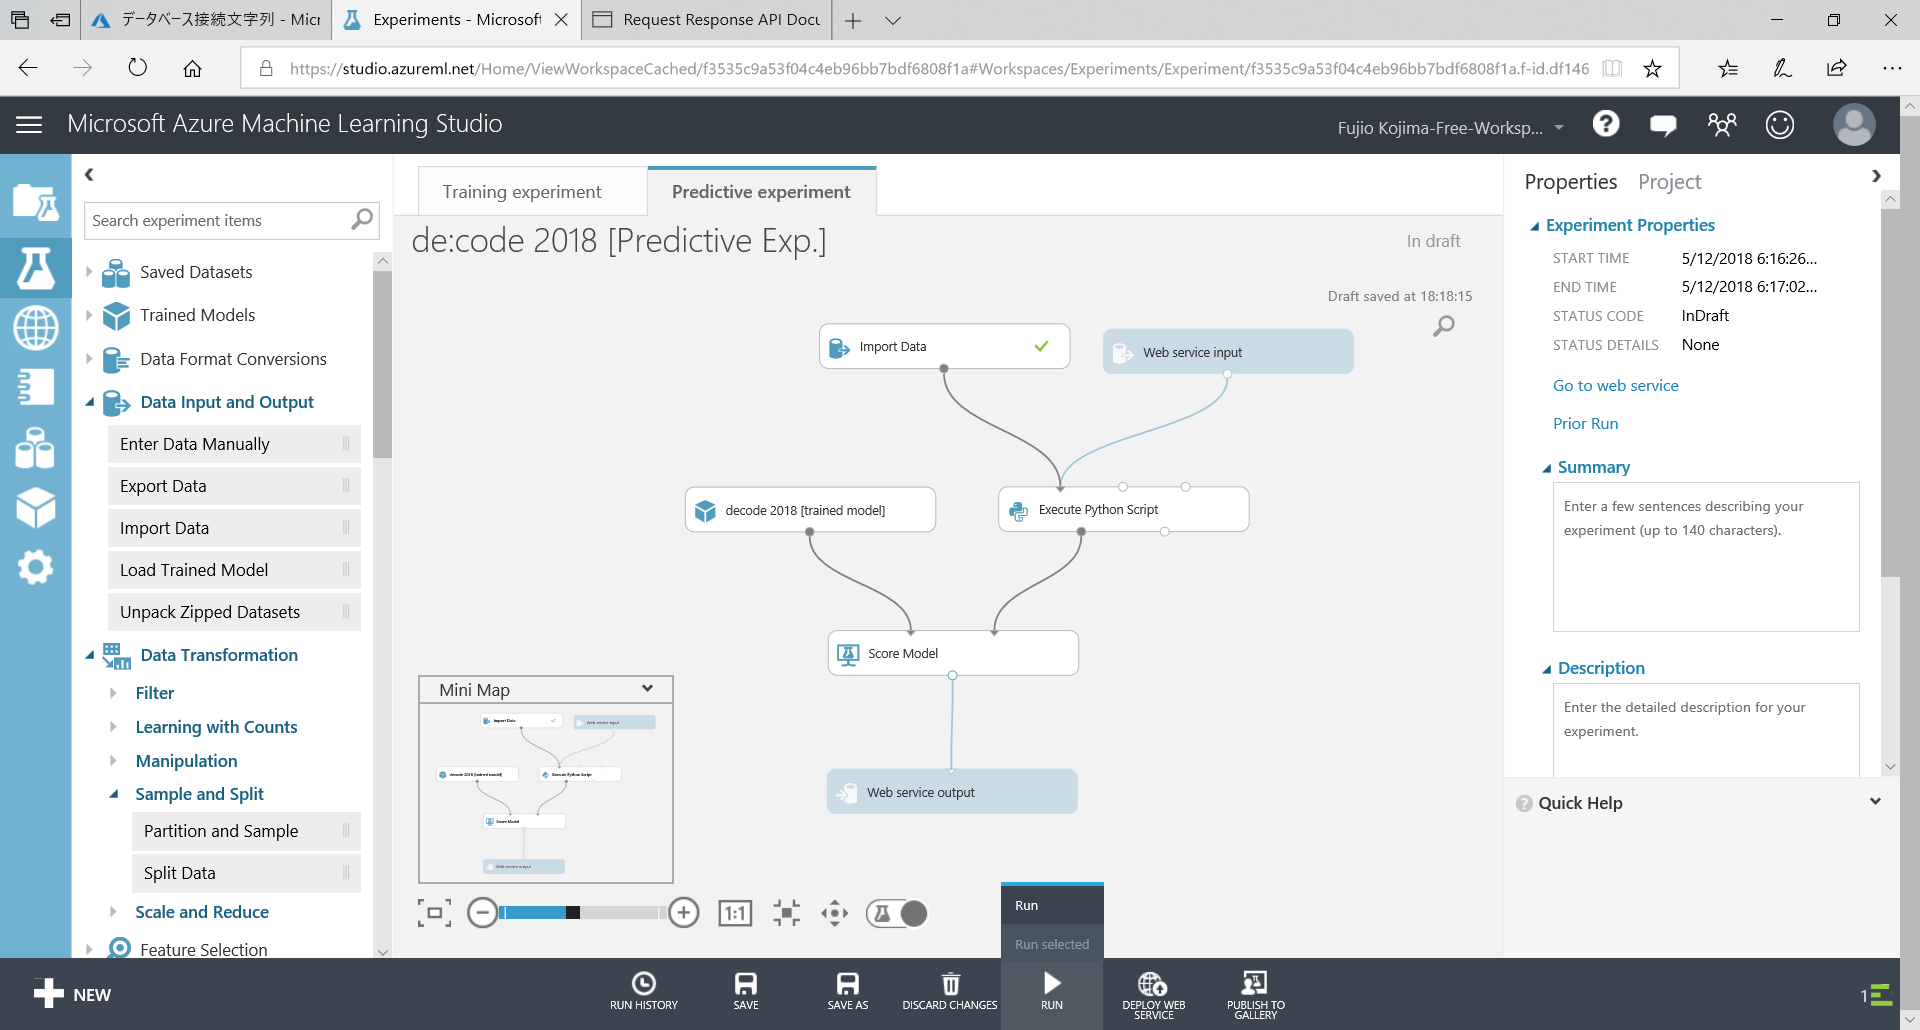
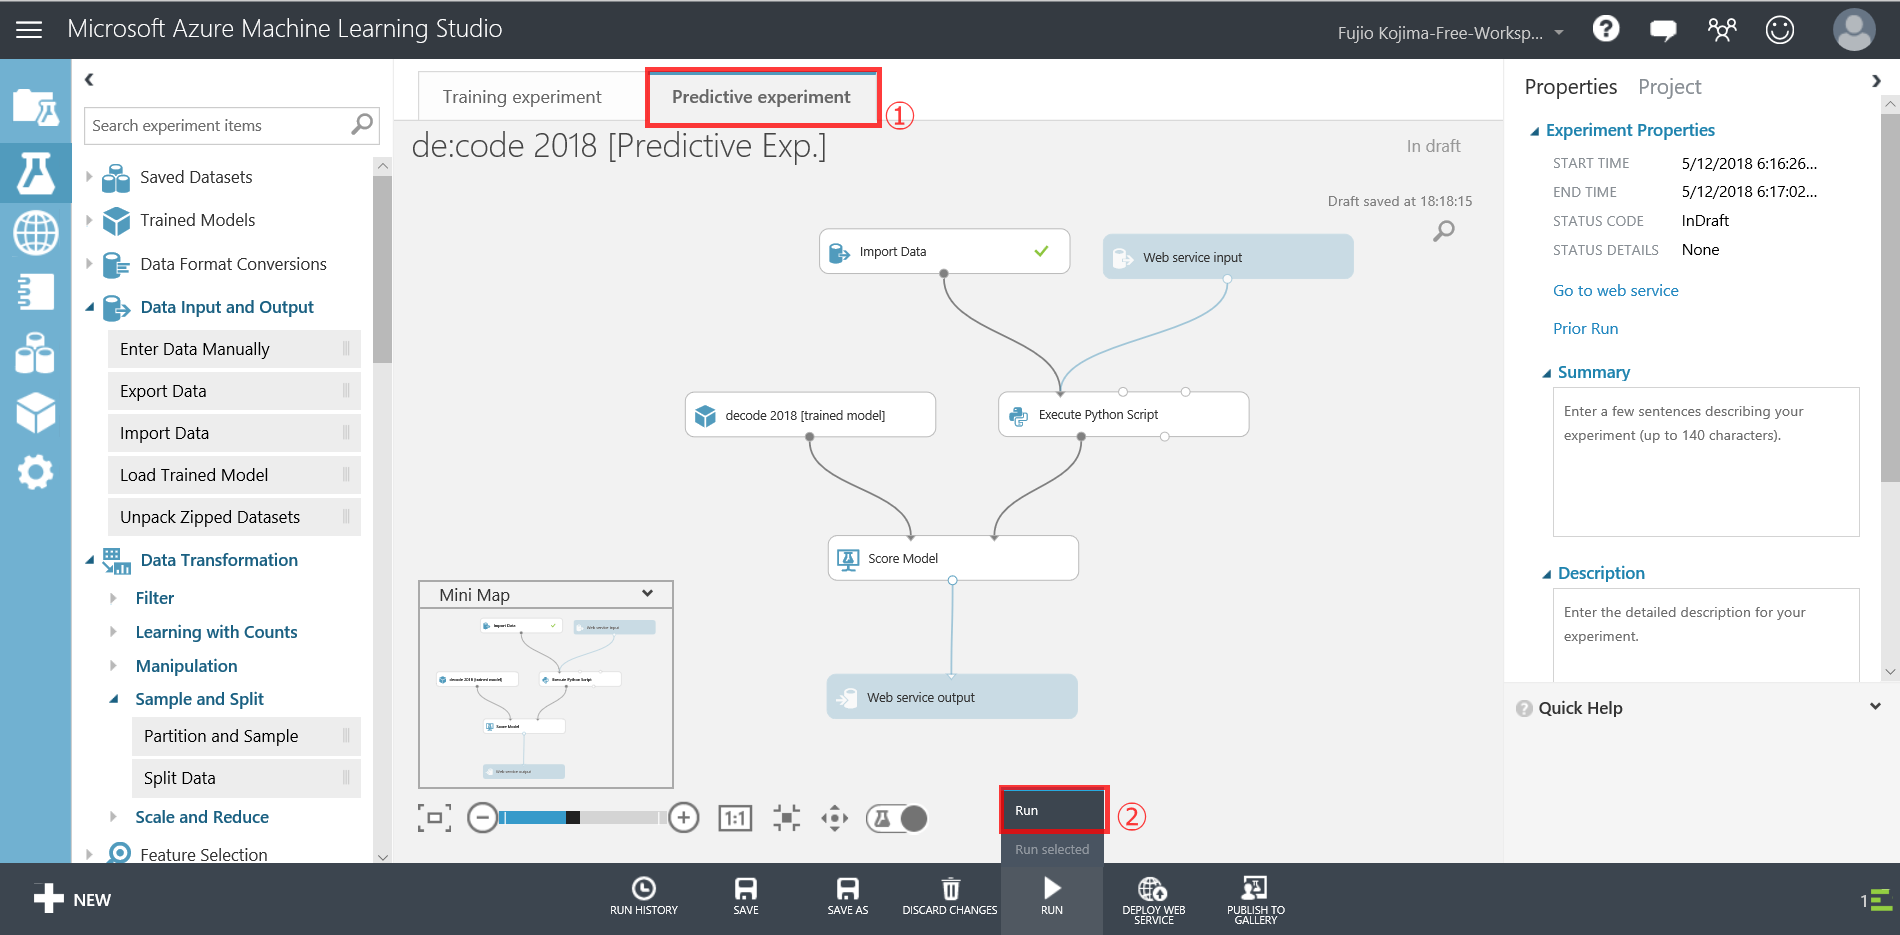
README.md 第三章の追加

diff --git a/README.md b/README.md
@@ -212,6 +212,35 @@ Azure Machine Learning Studio を使って簡単に機械学習を利用した A
 ---
 ## <a id="section4"></a>4. [Microsoft Azure Machine Learning Studio](https://studio.azureml.net) でマシーンラーニング (機械学習) したモデルから API を作成
 
+## 4.1 学習済みのモデルから、API を作ってみましょう。
+画面下部の「Predictice Web Service」をクリックします。
+
+![Microsoft Azure Machine Learning Studio でマシーンラーニング (機械学習) したモデルから API を作成](https://github.com/Fujiwo/PredictStockPrice-AI-decode/blob/master/images/2018-05-12%20(62).png?raw=true "Microsoft Azure Machine Learning Studio でマシーンラーニング (機械学習) したモデルから API を作成")
+
+## 4.2 「Predictice Experiment」というタブが作られます。
+画面下部の「RUN」をクリックしてみましょう。
+すべての実行が終わるまで待ちましょう。
+
+![Microsoft Azure Machine Learning Studio でマシーンラーニング (機械学習) したモデルから API を作成](https://github.com/Fujiwo/PredictStockPrice-AI-decode/blob/master/images/2018-05-12%20(77).png?raw=true "Microsoft Azure Machine Learning Studio でマシーンラーニング (機械学習) したモデルから API を作成")
+
+## 4.3 すべての実行が完了したら、画面下部の「DEPLOY WEB SERVICE」をクリックしてみます。
+
+![Microsoft Azure Machine Learning Studio でマシーンラーニング (機械学習) したモデルから API を作成](https://github.com/Fujiwo/PredictStockPrice-AI-decode/blob/master/images/2018-05-12%20(78).png?raw=true "Microsoft Azure Machine Learning Studio でマシーンラーニング (機械学習) したモデルから API を作成")
+
+## 4.4 学習済みモデルを利用した API が作られます。
+画面左下の「API HELP PAGE」 - 「REQUEST/RESPONSE」をクリックすると、作られた API の使い方を見ることができます。
+
+![Microsoft Azure Machine Learning Studio でマシーンラーニング (機械学習) したモデルから API を作成](https://github.com/Fujiwo/PredictStockPrice-AI-decode/blob/master/images/2018-05-12%20(79).png?raw=true "Microsoft Azure Machine Learning Studio でマシーンラーニング (機械学習) したモデルから API を作成")
+
+## 4.5 API の使い方が表示されます。
+
+![Microsoft Azure Machine Learning Studio でマシーンラーニング (機械学習) したモデルから API を作成](https://github.com/Fujiwo/PredictStockPrice-AI-decode/blob/master/images/2018-05-12%20(80).png?raw=true "Microsoft Azure Machine Learning Studio でマシーンラーニング (機械学習) したモデルから API を作成")
+
+例えば、呼び出すときに入力として渡す JSON の例が示されています。
+ただし、この API の入力には15日分の株価を必要としますので、Values は、大きさ15の配列にする必要があります。
+
+![Microsoft Azure Machine Learning Studio でマシーンラーニング (機械学習) したモデルから API を作成](https://github.com/Fujiwo/PredictStockPrice-AI-decode/blob/master/images/2018-05-12%20(81).png?raw=true "Microsoft Azure Machine Learning Studio でマシーンラーニング (機械学習) したモデルから API を作成")
+
 ---
 ## <a id="section5"></a>5. JavaScript から API を呼んでみるテスト
 
